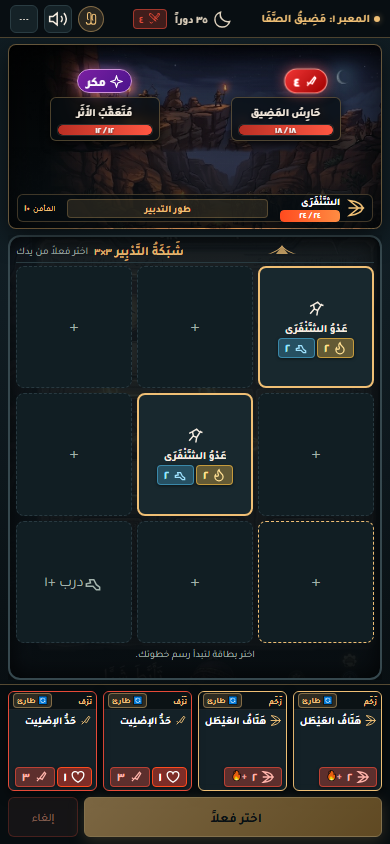
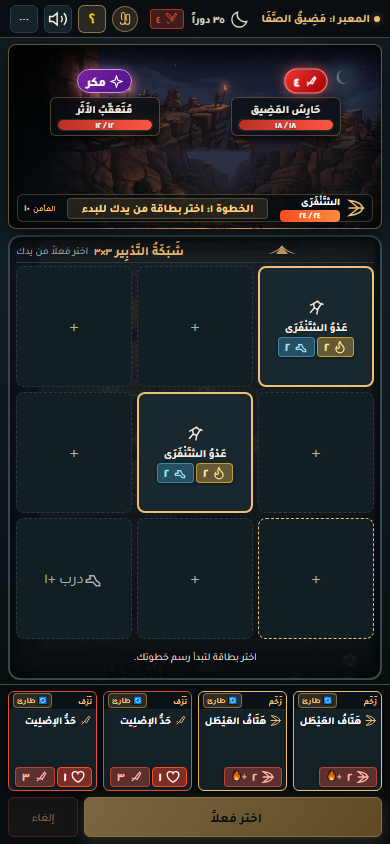
fix(arena): resolve 3-enemy boss overlap on mobile and add dynamic momentum/wolf pounce indicators

diff --git a/dist/app.bundle.js b/dist/app.bundle.js
@@ -1364,8 +1364,22 @@ function cardEffects(uid, s, face) {
     if (f.op === 'move') bits.push(stsStat('foot', num(f.n), '', 'stat-move'));
     if (f.op === 'momentum') bits.push(stsStat('fire', num(f.n), '', 'stat-momentum'));
     if (f.op === 'hit') bits.push(stsStat('knife', num(f.n), '', 'stat-attack'));
-    if (f.op === 'sniper') bits.push(stsStat('bow', num(f.n), '+🔥', 'stat-attack'));
-    if (f.op === 'cyclone_shot') bits.push(stsStat('bow', num(f.n), '+🔥🔥', 'stat-attack'));
+    if (f.op === 'sniper') {
+      const bonus = s ? Math.floor(s.momentum / 2) : 0;
+      if (bonus > 0) {
+        bits.push(stsStat('bow', num(f.n + bonus), `+${num(bonus)}🔥`, 'stat-attack bow-boosted'));
+      } else {
+        bits.push(stsStat('bow', num(f.n), '+🔥', 'stat-attack'));
+      }
+    }
+    if (f.op === 'cyclone_shot') {
+      const bonus = s ? s.momentum : 0;
+      if (bonus > 0) {
+        bits.push(stsStat('bow', num(f.n + bonus), `+${num(bonus)}🔥🔥`, 'stat-attack bow-boosted'));
+      } else {
+        bits.push(stsStat('bow', num(f.n), '+🔥🔥', 'stat-attack'));
+      }
+    }
     if (f.op === 'hurt') bits.push(stsStat('heart', num(f.n), '', 'stat-danger'));
     if (f.op === 'block') bits.push(stsStat('shield', num(f.n), '', 'stat-guard'));
     if (f.op === 'prime') bits.push(stsStat('spark', '+' + num(f.n), '', 'stat-setup'));
@@ -1373,7 +1387,14 @@ function cardEffects(uid, s, face) {
     if (f.op === 'poison') bits.push(stsStat('poison', num(f.n), '', 'stat-poison'));
     if (f.op === 'double_bleed') bits.push(stsStat('bleed', '×٢', '', 'stat-bleed'));
     if (f.op === 'explode_bleed') bits.push(stsStat('bleed', '💥×٢', '', 'stat-attack'));
-    if (f.op === 'wolf_pounce') bits.push(stsStat('wolf', num(f.n), '', 'stat-beast'));
+    if (f.op === 'wolf_pounce') {
+      const bonus = (s && (s.bleed > 0 || s.poison > 0)) ? 2 : 0;
+      if (bonus > 0) {
+        bits.push(stsStat('wolf', num(f.n + bonus), '🩸نشط', 'stat-beast wolf-empowered'));
+      } else {
+        bits.push(stsStat('wolf', num(f.n), '+🩸', 'stat-beast'));
+      }
+    }
     if (f.op === 'ward') bits.push(stsStat('cover', 'ساتر', '', 'stat-guard'));
     if (f.op === 'vanish') bits.push('<span class="vanish-badge">تُطرح</span>');
   }
@@ -1450,7 +1471,7 @@ function renderCinematicArena(s, projected, p = {}) {
   return `
     <section class="cinematic-arena">
       <!-- 1. The Living Gorge Field: Enemies Standing Openly in the Terrain -->
-      <div class="enemy-squad" aria-label="أعداء بني سلامان ونواياهم">
+      <div class="enemy-squad squad-size-${s.enemies.length}" aria-label="أعداء بني سلامان ونواياهم">
         ${s.enemies.map((e, idx) => {
           const living = s.enemies.filter(x => x.hp > 0);
           const isSolo = living.length === 1;
@@ -1509,7 +1530,11 @@ function renderCinematicArena(s, projected, p = {}) {
             </div>
           </div>
           ${projected?.summary?.block ? `<span class="proj-block-tag">${icon('shield')} <b>+${num(projected.summary.block)}</b></span>` : ''}
-          ${s.momentum > 0 ? `<span class="momentum-tag">${icon('fire')} <b>${num(s.momentum)}</b></span>` : ''}
+          ${s.momentum > 0 ? `
+            <span class="momentum-tag" title="زخم حركي: يتحول إلى دروع نهاية الدور أو يضاعف رميات القوس">
+              ${icon('fire')} <b>${num(s.momentum)}</b> <small class="mom-convert">➔ +${num(s.momentum * (s.relics.includes('sandals') ? 2 : 1))}🛡</small>
+            </span>
+          ` : ''}
         </div>
 
         <div class="center-turn-banner">
@@ -2079,8 +2104,32 @@ function action(a) {
             <p>قبل الضغط، راقب التوقعات بالأعلى: الضرر الذي سينال العدو، والدروع التي ستصد هجومه القادم!</p>
           </div>
         </div>
-        <div class="guide-footer-tip">
+        <div class="guide-footer-tip" style="margin-top:6px;">
           💡 <b>سر الصعاليك:</b> عندما يكتمل الخط بـ ٣ بطاقات ينفّذ ضربات قاضية ثم يُفرَّغ لتضع فيه بطاقات جديدة!
+        </div>
+
+        <div class="mechanics-breakdown-box" style="margin-top:10px;background:rgba(8,16,20,0.85);border:1px solid #ffd488;border-radius:8px;padding:10px;">
+          <h3 style="color:#efbf75;margin:0 0 8px;font-size:0.95rem;">⚡ كيف تستغل الزَّخَم والنَّهْش في معاركك؟</h3>
+          <ul style="margin:0;padding-right:18px;font-size:0.8rem;line-height:1.5;color:#e8ded1;">
+            <li style="margin-bottom:6px;">
+              <b style="color:#f0b842;">🔥 الزَّخَم (Momentum):</b> طاقة سرعة تتراكم.
+              <br>• <b>حماية تلقائية:</b> أي زخم يتبقى بنهاية الدور <b>يتحول تلقائياً إلى دروع (+١ درع لكل زخم)</b> تحميك من الأعداء!
+              <br>• <b>تقوية القوس:</b> رمية القوس 🏹 تضيف نصف رصيدك من الزخم كضرر إضافي مباشر!
+            </li>
+            <li style="margin-bottom:6px;">
+              <b style="color:#ba7ae8;">🐺 النَّهْش وانقضاض الذئب (Beast Pounce):</b>
+              <br>• الذئب يضرب ضرراً أساسياً.
+              <br>• <b>التآزر القاتل:</b> إذا ضربت العدو أولاً بـ <b>النَّزْف 🩸</b> أو <b>السُّم 🧪</b>، يشم الذئب الدم ويكسب <b>+٢ ضرر إضافي فوراً!</b>
+            </li>
+            <li style="margin-bottom:6px;">
+              <b style="color:#e64a38;">🩸 النَّزْف (Bleed):</b>
+              <br>• يُمكّن الذئب من النهش المضاعف، وتفجيره ببطاقة النصل يضاعف ضرره مرتين 💥!
+            </li>
+            <li>
+              <b style="color:#4aaed9;">🛡 الصَّخْر والسَّواتر (Rock):</b>
+              <br>• تغرس سواتر في خانات الصخرة؛ تفعيلها يمنحك دروعاً صلبة ويصد هجمات العدو.
+            </li>
+          </ul>
         </div>
       </div>
       `

diff --git a/dist/nexus/app.bundle.js b/dist/nexus/app.bundle.js
@@ -1364,8 +1364,22 @@ function cardEffects(uid, s, face) {
     if (f.op === 'move') bits.push(stsStat('foot', num(f.n), '', 'stat-move'));
     if (f.op === 'momentum') bits.push(stsStat('fire', num(f.n), '', 'stat-momentum'));
     if (f.op === 'hit') bits.push(stsStat('knife', num(f.n), '', 'stat-attack'));
-    if (f.op === 'sniper') bits.push(stsStat('bow', num(f.n), '+🔥', 'stat-attack'));
-    if (f.op === 'cyclone_shot') bits.push(stsStat('bow', num(f.n), '+🔥🔥', 'stat-attack'));
+    if (f.op === 'sniper') {
+      const bonus = s ? Math.floor(s.momentum / 2) : 0;
+      if (bonus > 0) {
+        bits.push(stsStat('bow', num(f.n + bonus), `+${num(bonus)}🔥`, 'stat-attack bow-boosted'));
+      } else {
+        bits.push(stsStat('bow', num(f.n), '+🔥', 'stat-attack'));
+      }
+    }
+    if (f.op === 'cyclone_shot') {
+      const bonus = s ? s.momentum : 0;
+      if (bonus > 0) {
+        bits.push(stsStat('bow', num(f.n + bonus), `+${num(bonus)}🔥🔥`, 'stat-attack bow-boosted'));
+      } else {
+        bits.push(stsStat('bow', num(f.n), '+🔥🔥', 'stat-attack'));
+      }
+    }
     if (f.op === 'hurt') bits.push(stsStat('heart', num(f.n), '', 'stat-danger'));
     if (f.op === 'block') bits.push(stsStat('shield', num(f.n), '', 'stat-guard'));
     if (f.op === 'prime') bits.push(stsStat('spark', '+' + num(f.n), '', 'stat-setup'));
@@ -1373,7 +1387,14 @@ function cardEffects(uid, s, face) {
     if (f.op === 'poison') bits.push(stsStat('poison', num(f.n), '', 'stat-poison'));
     if (f.op === 'double_bleed') bits.push(stsStat('bleed', '×٢', '', 'stat-bleed'));
     if (f.op === 'explode_bleed') bits.push(stsStat('bleed', '💥×٢', '', 'stat-attack'));
-    if (f.op === 'wolf_pounce') bits.push(stsStat('wolf', num(f.n), '', 'stat-beast'));
+    if (f.op === 'wolf_pounce') {
+      const bonus = (s && (s.bleed > 0 || s.poison > 0)) ? 2 : 0;
+      if (bonus > 0) {
+        bits.push(stsStat('wolf', num(f.n + bonus), '🩸نشط', 'stat-beast wolf-empowered'));
+      } else {
+        bits.push(stsStat('wolf', num(f.n), '+🩸', 'stat-beast'));
+      }
+    }
     if (f.op === 'ward') bits.push(stsStat('cover', 'ساتر', '', 'stat-guard'));
     if (f.op === 'vanish') bits.push('<span class="vanish-badge">تُطرح</span>');
   }
@@ -1450,7 +1471,7 @@ function renderCinematicArena(s, projected, p = {}) {
   return `
     <section class="cinematic-arena">
       <!-- 1. The Living Gorge Field: Enemies Standing Openly in the Terrain -->
-      <div class="enemy-squad" aria-label="أعداء بني سلامان ونواياهم">
+      <div class="enemy-squad squad-size-${s.enemies.length}" aria-label="أعداء بني سلامان ونواياهم">
         ${s.enemies.map((e, idx) => {
           const living = s.enemies.filter(x => x.hp > 0);
           const isSolo = living.length === 1;
@@ -1509,7 +1530,11 @@ function renderCinematicArena(s, projected, p = {}) {
             </div>
           </div>
           ${projected?.summary?.block ? `<span class="proj-block-tag">${icon('shield')} <b>+${num(projected.summary.block)}</b></span>` : ''}
-          ${s.momentum > 0 ? `<span class="momentum-tag">${icon('fire')} <b>${num(s.momentum)}</b></span>` : ''}
+          ${s.momentum > 0 ? `
+            <span class="momentum-tag" title="زخم حركي: يتحول إلى دروع نهاية الدور أو يضاعف رميات القوس">
+              ${icon('fire')} <b>${num(s.momentum)}</b> <small class="mom-convert">➔ +${num(s.momentum * (s.relics.includes('sandals') ? 2 : 1))}🛡</small>
+            </span>
+          ` : ''}
         </div>
 
         <div class="center-turn-banner">
@@ -2079,8 +2104,32 @@ function action(a) {
             <p>قبل الضغط، راقب التوقعات بالأعلى: الضرر الذي سينال العدو، والدروع التي ستصد هجومه القادم!</p>
           </div>
         </div>
-        <div class="guide-footer-tip">
+        <div class="guide-footer-tip" style="margin-top:6px;">
           💡 <b>سر الصعاليك:</b> عندما يكتمل الخط بـ ٣ بطاقات ينفّذ ضربات قاضية ثم يُفرَّغ لتضع فيه بطاقات جديدة!
+        </div>
+
+        <div class="mechanics-breakdown-box" style="margin-top:10px;background:rgba(8,16,20,0.85);border:1px solid #ffd488;border-radius:8px;padding:10px;">
+          <h3 style="color:#efbf75;margin:0 0 8px;font-size:0.95rem;">⚡ كيف تستغل الزَّخَم والنَّهْش في معاركك؟</h3>
+          <ul style="margin:0;padding-right:18px;font-size:0.8rem;line-height:1.5;color:#e8ded1;">
+            <li style="margin-bottom:6px;">
+              <b style="color:#f0b842;">🔥 الزَّخَم (Momentum):</b> طاقة سرعة تتراكم.
+              <br>• <b>حماية تلقائية:</b> أي زخم يتبقى بنهاية الدور <b>يتحول تلقائياً إلى دروع (+١ درع لكل زخم)</b> تحميك من الأعداء!
+              <br>• <b>تقوية القوس:</b> رمية القوس 🏹 تضيف نصف رصيدك من الزخم كضرر إضافي مباشر!
+            </li>
+            <li style="margin-bottom:6px;">
+              <b style="color:#ba7ae8;">🐺 النَّهْش وانقضاض الذئب (Beast Pounce):</b>
+              <br>• الذئب يضرب ضرراً أساسياً.
+              <br>• <b>التآزر القاتل:</b> إذا ضربت العدو أولاً بـ <b>النَّزْف 🩸</b> أو <b>السُّم 🧪</b>، يشم الذئب الدم ويكسب <b>+٢ ضرر إضافي فوراً!</b>
+            </li>
+            <li style="margin-bottom:6px;">
+              <b style="color:#e64a38;">🩸 النَّزْف (Bleed):</b>
+              <br>• يُمكّن الذئب من النهش المضاعف، وتفجيره ببطاقة النصل يضاعف ضرره مرتين 💥!
+            </li>
+            <li>
+              <b style="color:#4aaed9;">🛡 الصَّخْر والسَّواتر (Rock):</b>
+              <br>• تغرس سواتر في خانات الصخرة؛ تفعيلها يمنحك دروعاً صلبة ويصد هجمات العدو.
+            </li>
+          </ul>
         </div>
       </div>
       `

diff --git a/dist/style.css b/dist/style.css
@@ -554,6 +554,25 @@ button:disabled {
   animation: ghost-pulse 0.8s infinite alternate ease-in-out;
 }
 
+.mom-convert {
+  font-size: 0.62rem;
+  color: #bfe7fc;
+  font-weight: 800;
+  margin-right: 2px;
+}
+
+.wolf-empowered {
+  background: linear-gradient(135deg, rgba(186, 122, 232, 0.6) 0%, rgba(230, 74, 56, 0.6) 100%) !important;
+  border-color: #ff5252 !important;
+  box-shadow: 0 0 10px rgba(255, 82, 82, 0.7) !important;
+  animation: ghost-pulse 0.8s infinite alternate ease-in-out;
+}
+
+.bow-boosted {
+  border-color: #ffd700 !important;
+  box-shadow: 0 0 8px rgba(255, 215, 0, 0.6) !important;
+}
+
 .center-turn-banner {
   flex: 1;
   text-align: center;
@@ -1543,19 +1562,70 @@ dialog::backdrop {
 
   /* Upper Arena: 185px fixed height (Scenic Gorge + Floating Target Crests) */
   .cinematic-arena {
-    flex: 0 0 185px;
-    height: 185px;
-    min-height: 185px;
-    max-height: 185px;
-    padding: 4px 8px 4px;
+    flex: 0 0 190px;
+    height: 190px;
+    min-height: 190px;
+    max-height: 190px;
+    padding: 4px 6px 4px;
     border-radius: 8px;
+    display: flex;
+    flex-direction: column;
     justify-content: space-between;
   }
 
   .enemy-squad {
+    gap: 8px;
+    margin: 8px 2px 2px;
+    display: grid;
+    grid-template-columns: repeat(auto-fit, minmax(100px, 1fr));
+    align-items: start;
+    width: 100%;
+  }
+
+  .enemy-squad.squad-size-3 {
+    grid-template-columns: repeat(3, minmax(0, 1fr)) !important;
+    gap: 4px;
+    margin-top: 6px;
+  }
+
+  .enemy-squad.squad-size-3 .enemy-actor {
+    padding: 0;
+  }
+
+  .enemy-squad.squad-size-3 .enemy-crest-body {
+    max-width: 96px;
+    padding: 2px 3px 3px;
+    gap: 1px;
+  }
+
+  .enemy-squad.squad-size-3 .enemy-name {
+    font-size: 0.58rem;
+    white-space: nowrap;
+    overflow: hidden;
+    text-overflow: ellipsis;
+    max-width: 90px;
+  }
+
+  .enemy-squad.squad-size-3 .enemy-hp-track {
+    height: 9px;
+  }
+
+  .enemy-squad.squad-size-3 .enemy-hp-track .hp-num {
+    font-size: 0.5rem;
+    line-height: 9px;
+  }
+
+  .enemy-squad.squad-size-3 .enemy-intent-crest {
+    height: 22px;
+    min-width: 26px;
+    font-size: 0.76rem;
+    padding: 0 5px;
+    margin-bottom: 1px;
+  }
+
+  .enemy-squad.squad-size-2 {
+    grid-template-columns: repeat(2, minmax(0, 1fr)) !important;
     gap: 10px;
-    margin: 18px 2px 2px;
-    grid-template-columns: repeat(2, minmax(0, 1fr));
   }
 
   .enemy-actor {

diff --git a/index.html b/index.html
@@ -2,11 +2,11 @@
 <html lang="ar" dir="rtl">
 <head>
   <meta charset="utf-8">
-  <meta http-equiv="refresh" content="0; url=dist/index.html?v=v12-live-feedback">
-  <script>location.replace('dist/index.html?v=v12-live-feedback');</script>
+  <meta http-equiv="refresh" content="0; url=dist/index.html?v=v13-synergy-layout">
+  <script>location.replace('dist/index.html?v=v13-synergy-layout');</script>
   <title>الشنفرى — شبكة التدبير</title>
 </head>
 <body style="background:#111d22;color:#f5ead4;display:grid;place-items:center;height:100vh;margin:0;font-family:sans-serif;direction:rtl;">
-  <p>جارٍ الانتقال إلى اللعبة... <a href="dist/index.html?v=v12-live-feedback" style="color:#efbf75;">اضغط هنا إن لم يتم نقلك تلقائيًا</a></p>
+  <p>جارٍ الانتقال إلى اللعبة... <a href="dist/index.html?v=v13-synergy-layout" style="color:#efbf75;">اضغط هنا إن لم يتم نقلك تلقائيًا</a></p>
 </body>
 </html>

diff --git a/dist/index.html b/dist/index.html
@@ -9,12 +9,12 @@
   <meta name="theme-color" content="#070d10">
   <meta name="description" content="طريق السَّراة: ملحمة الشَّنْفَرَى — رن الصعاليك الكامل والمسرح المزدوج">
   <title>طريق السَّراة: ملحمة الشَّنْفَرَى</title>
-  <link rel="stylesheet" href="style.css?v=v12-live-feedback">
+  <link rel="stylesheet" href="style.css?v=v13-synergy-layout">
 </head>
 <body>
   <div id="app"></div>
   <dialog id="menu" aria-label="قائمة النموذج"></dialog>
   <div id="live" class="sr" aria-live="polite"></div>
-  <script src="app.bundle.js?v=v12-live-feedback"></script>
+  <script src="app.bundle.js?v=v13-synergy-layout"></script>
 </body>
 </html>
